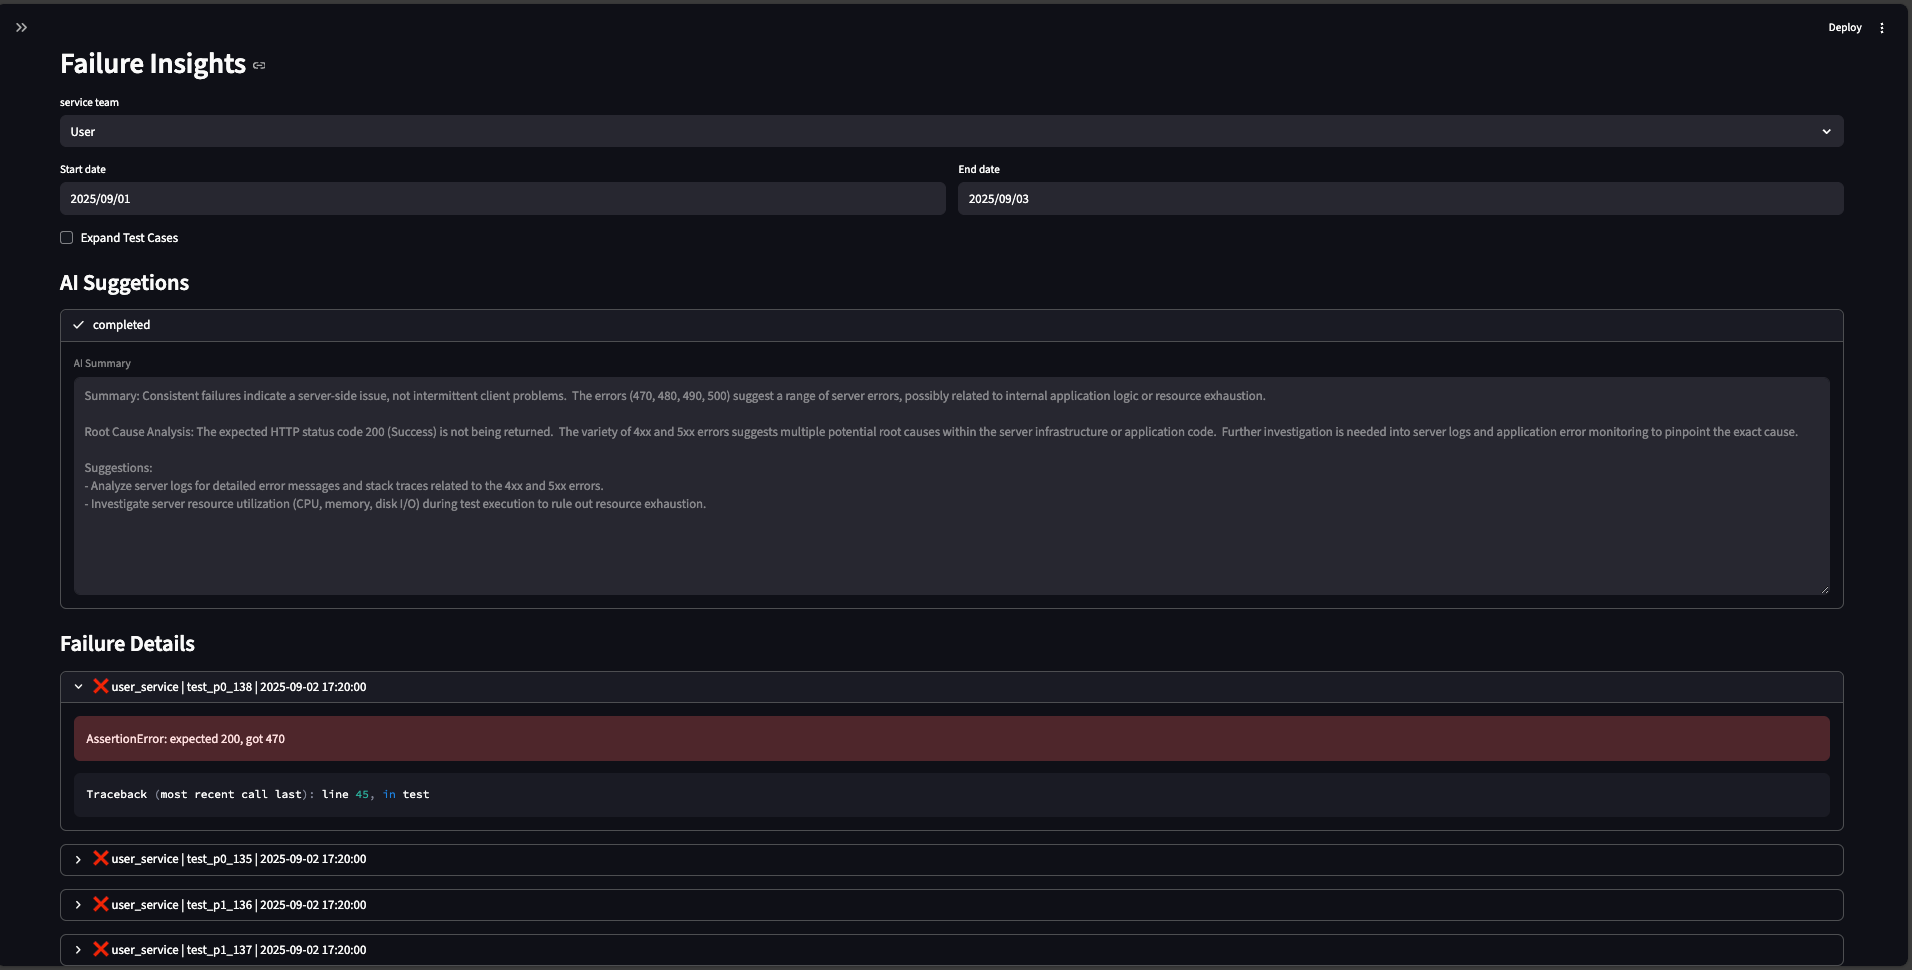
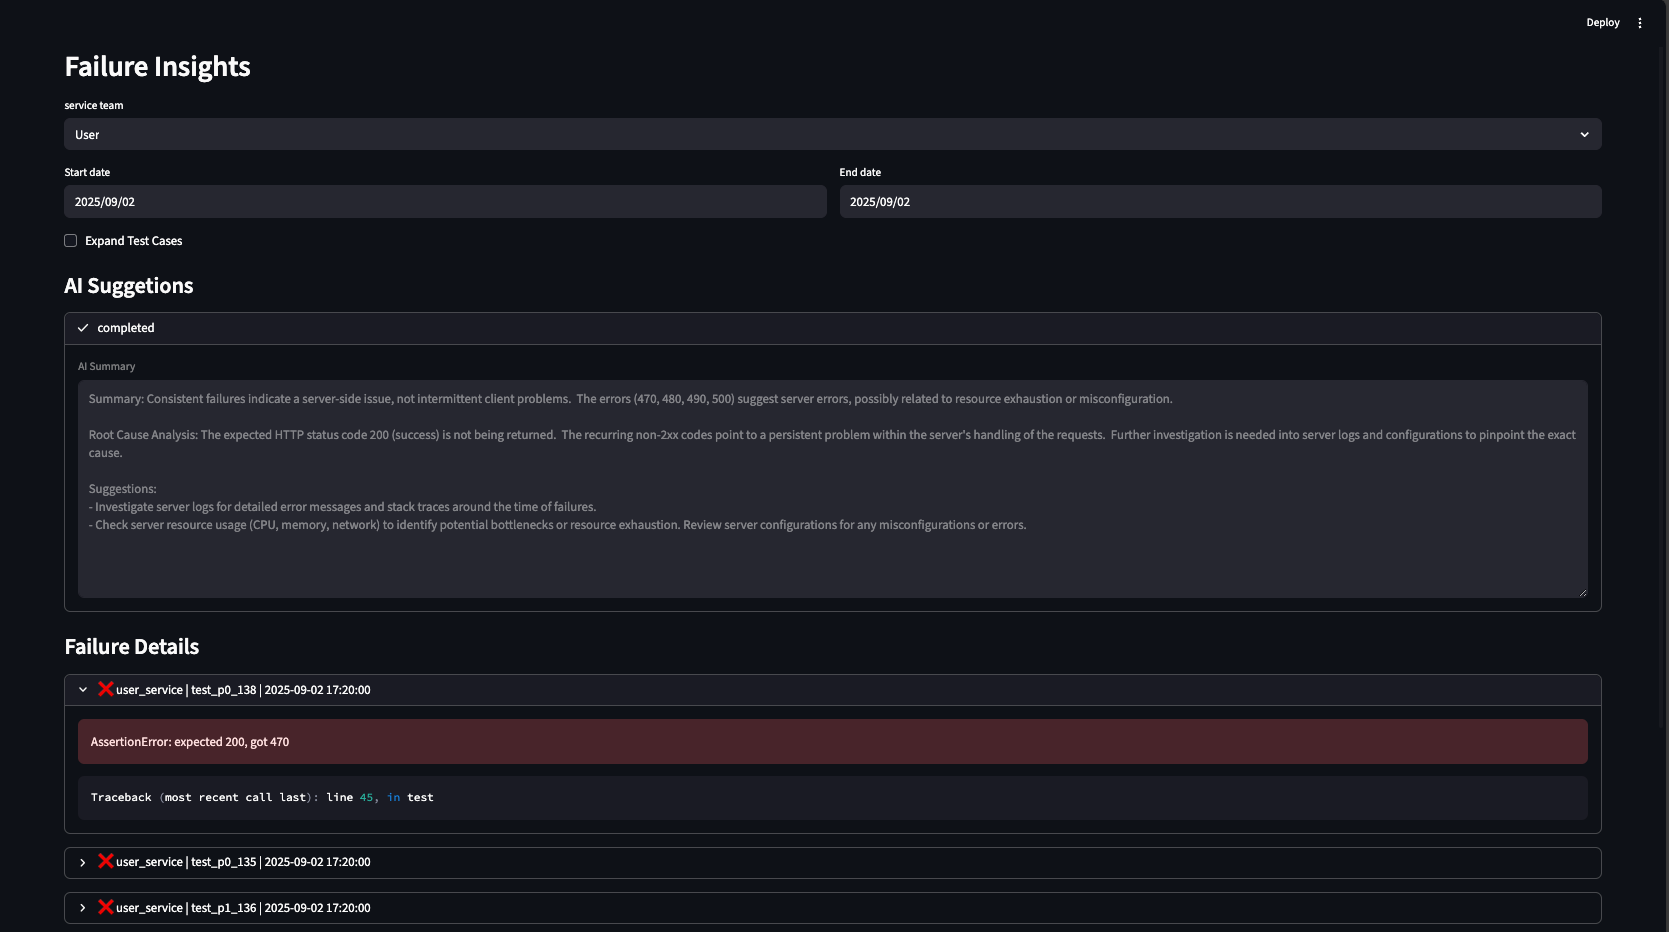
Fix: token exceed

Changed region(s): [[0.0, 0.0, 1.0, 1.0]]

diff --git a/run.py b/run.py
@@ -42,7 +42,10 @@ class StreamLitPage:
         with end_date:
             end_date = streamlit.date_input(label='End date', value='2025-09-07')  # self.common_value.today
 
-        dataframe = self.biz.get_failure_summary_grouped_by_service(start_date=start_date, end_date=end_date)
+        dataframe = self.biz.get_failure_summary_grouped_by_service(
+            start_date=start_date,
+            end_date=end_date + datetime.timedelta(days=1)
+        )
 
         if dataframe.empty:
             streamlit.warning('No failure data found.')
@@ -70,7 +73,7 @@ class StreamLitPage:
             dataframe_team = self.biz.get_failure_details_by_team(
                 service_team=team,
                 start_date=start_date,
-                end_date=end_date
+                end_date=end_date + datetime.timedelta(days=1)
             )
             all_details.append(dataframe_team)
 
@@ -114,16 +117,16 @@ class StreamLitPage:
 
         start_date, end_date = streamlit.columns(2)
         with start_date:
-            start_date = streamlit.date_input(label='Start date', value='2025-09-01')  # elf.common_value.last_seven_day
+            start_date = streamlit.date_input(label='Start date', value='2025-09-02')  # elf.common_value.last_seven_day
         with end_date:
-            end_date = streamlit.date_input(label='End date', value='2025-09-03')  # self.common_value.today
+            end_date = streamlit.date_input(label='End date', value='2025-09-02')  # self.common_value.today
 
         expand_all = streamlit.checkbox(label='Expand Test Cases', value=False)
 
         dataframe = self.biz.get_failure_details_by_team(
             service_team=service_team,
             start_date=start_date,
-            end_date=end_date
+            end_date=end_date + datetime.timedelta(days=1)
         )
 
         if dataframe.empty:

diff --git a/llm/gemini_helper.py b/llm/gemini_helper.py
@@ -12,7 +12,10 @@ class GeminiHelper:
         self.cache = {}  # To avoid same data request repeatly
 
     def _make_cache_key(self, service_team: str, error_list: list[str], date: str) -> str:
-        joined = f"{date}::{service_team}" + '\n'.join(error_list)
+        # Only keep top 30 errors to control prompt size and avoid token limit issues
+        error_list = sorted(set(error_list))[:30]
+
+        joined = f'{date}::{service_team}' + '\n'.join(error_list)
         return hashlib.md5(joined.encode('utf-8')).hexdigest()
 
     def anlayze_failure_reason(self, service_team: str, error_list: list[str], date: str) -> dict:
@@ -21,14 +24,10 @@ class GeminiHelper:
             return self.cache[cache_key]
 
         prompt = f"""
-            You are an expert QA analyst.
-
+            You are an expert Software Quality Assurance.
             Below is a list of failed test case error messages from the "{service_team}" team:
-
-            {chr(10).join([f"{i + 1}. {e}" for i, e in enumerate(error_list)])}
-
+            {chr(10).join([f'{i + 1}. {e}' for i, e in enumerate(error_list)])}
             Please return your insights in strict **JSON** format with **concise content only**, max 3–5 sentences per section.
-
             Return:
             {{
               "summary": "...",

diff --git a/database/business.py b/database/business.py
@@ -24,7 +24,8 @@ class BusinessLogic:
                 COUNT(*) AS fail_count
             FROM automation_test_result,
                 jsonb_array_elements(failure_records) AS failure_record
-            WHERE create_time BETWEEN %s AND %s
+            WHERE create_time >= %s
+                AND create_time < %s 
             GROUP BY service_team
             ORDER BY fail_count DESC;
         """)
@@ -44,7 +45,8 @@ class BusinessLogic:
             FROM automation_test_result,
                 jsonb_array_elements(failure_records) AS failure_record
             WHERE service_team = %s
-                AND start_time BETWEEN %s AND %s
+                AND start_time >= %s
+                AND start_time < %s 
                 AND jsonb_array_length(failure_records) > 0
             ORDER BY start_time DESC;
         """)

diff --git a/README.md b/README.md
@@ -117,9 +117,8 @@ INSERT INTO automation_test_result (service, service_team, request_id, is_rerun,
 ## 🔍 Future Plans / Roadmap
 
 - Login & Team-level access control
-- Trend charts grouped by tag / test suite / branch
+- Trend charts grouped by tag / test suite
 - Slack / Email alert integration
-- Click-to-Rerun Failed Test (via CI/CD webhook)
 - Historical comparison (e.g., what changed since last run)
 - Multi-environment support (test, uat, staging, prod)
 - Full-text search in error messages
